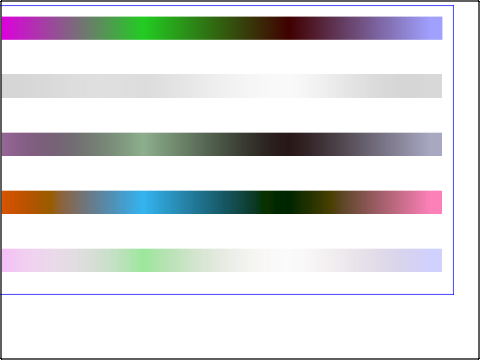
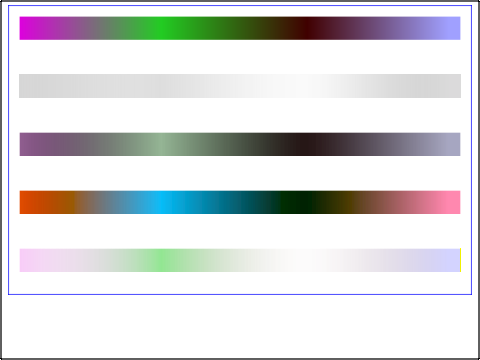
Bug #: 5326 Submitted by: Rob Buis  <rwlbuis@xs4all.nl> Reviewed by: eseidel         Test cases updated:         * svg-tests/W3C-SVG-1.1/filters-color-01-b-expected.checksum:         * svg-tests/W3C-SVG-1.1/filters-color-01-b-expected.png:         * svg-tests/W3C-SVG-1.1/filters-color-01-b-expected.
Fixed <svg> to base %lengths off of the nearest viewbox.
        http://bugzilla.opendarwin.org/show_bug.cgi?id=5326

        * ksvg2/svg/SVGPreserveAspectRatioImpl.cpp:
        (SVGPreserveAspectRatioImpl::SVGPreserveAspectRatioImpl):
        * ksvg2/svg/SVGSVGElementImpl.cpp:
        (SVGSVGElementImpl::x):
        (SVGSVGElementImpl::y):
        (SVGSVGElementImpl::width):
        (SVGSVGElementImpl::height):

Identifier: 9188@main
git-svn-id: https://svn.webkit.org/repository/webkit/trunk@10842 268f45cc-cd09-0410-ab3c-d52691b4dbfc

diff --git a/WebCore/ksvg2/svg/SVGSVGElementImpl.cpp b/WebCore/ksvg2/svg/SVGSVGElementImpl.cpp
@@ -87,12 +87,12 @@ SVGSVGElementImpl::~SVGSVGElementImpl()
 
 SVGAnimatedLengthImpl *SVGSVGElementImpl::x() const
 {
-    return lazy_create<SVGAnimatedLengthImpl>(m_x, static_cast<const SVGStyledElementImpl *>(0), LM_WIDTH, this);
+    return lazy_create<SVGAnimatedLengthImpl>(m_x, static_cast<const SVGStyledElementImpl *>(0), LM_WIDTH, ownerDocument()->documentElement() == static_cast<const KDOM::ElementImpl *>(this) ? this : viewportElement());
 }
 
 SVGAnimatedLengthImpl *SVGSVGElementImpl::y() const
 {
-    return lazy_create<SVGAnimatedLengthImpl>(m_y, static_cast<const SVGStyledElementImpl *>(0), LM_HEIGHT, this);
+    return lazy_create<SVGAnimatedLengthImpl>(m_y, static_cast<const SVGStyledElementImpl *>(0), LM_HEIGHT, ownerDocument()->documentElement() == static_cast<const KDOM::ElementImpl *>(this) ? this : viewportElement());
 }
 
 SVGAnimatedLengthImpl *SVGSVGElementImpl::width() const
@@ -100,7 +100,7 @@ SVGAnimatedLengthImpl *SVGSVGElementImpl::width() const
     if(!m_width)
     {
         KDOM::DOMString temp("100%");
-        lazy_create<SVGAnimatedLengthImpl>(m_width, static_cast<const SVGStyledElementImpl *>(0), LM_WIDTH, this);
+        lazy_create<SVGAnimatedLengthImpl>(m_width, static_cast<const SVGStyledElementImpl *>(0), LM_WIDTH, ownerDocument()->documentElement() == static_cast<const KDOM::ElementImpl *>(this) ? this : viewportElement());
         m_width->baseVal()->setValueAsString(temp.handle());
     }
 
@@ -112,7 +112,7 @@ SVGAnimatedLengthImpl *SVGSVGElementImpl::height() const
     if(!m_height)
     {
         KDOM::DOMString temp("100%");
-        lazy_create<SVGAnimatedLengthImpl>(m_height, static_cast<const SVGStyledElementImpl *>(0), LM_HEIGHT, this);
+        lazy_create<SVGAnimatedLengthImpl>(m_height, static_cast<const SVGStyledElementImpl *>(0), LM_HEIGHT, ownerDocument()->documentElement() == static_cast<const KDOM::ElementImpl *>(this) ? this : viewportElement());
         m_height->baseVal()->setValueAsString(temp.handle());
     }
 

diff --git a/WebCore/ksvg2/svg/SVGPreserveAspectRatioImpl.cpp b/WebCore/ksvg2/svg/SVGPreserveAspectRatioImpl.cpp
@@ -37,7 +37,7 @@ SVGPreserveAspectRatioImpl::SVGPreserveAspectRatioImpl(const SVGStyledElementImp
 {
     m_context = context;
     m_meetOrSlice = SVG_MEETORSLICE_MEET;
-    m_align = SVG_PRESERVEASPECTRATIO_XMINYMID;
+    m_align = SVG_PRESERVEASPECTRATIO_XMIDYMID;
 }
 
 SVGPreserveAspectRatioImpl::~SVGPreserveAspectRatioImpl()
